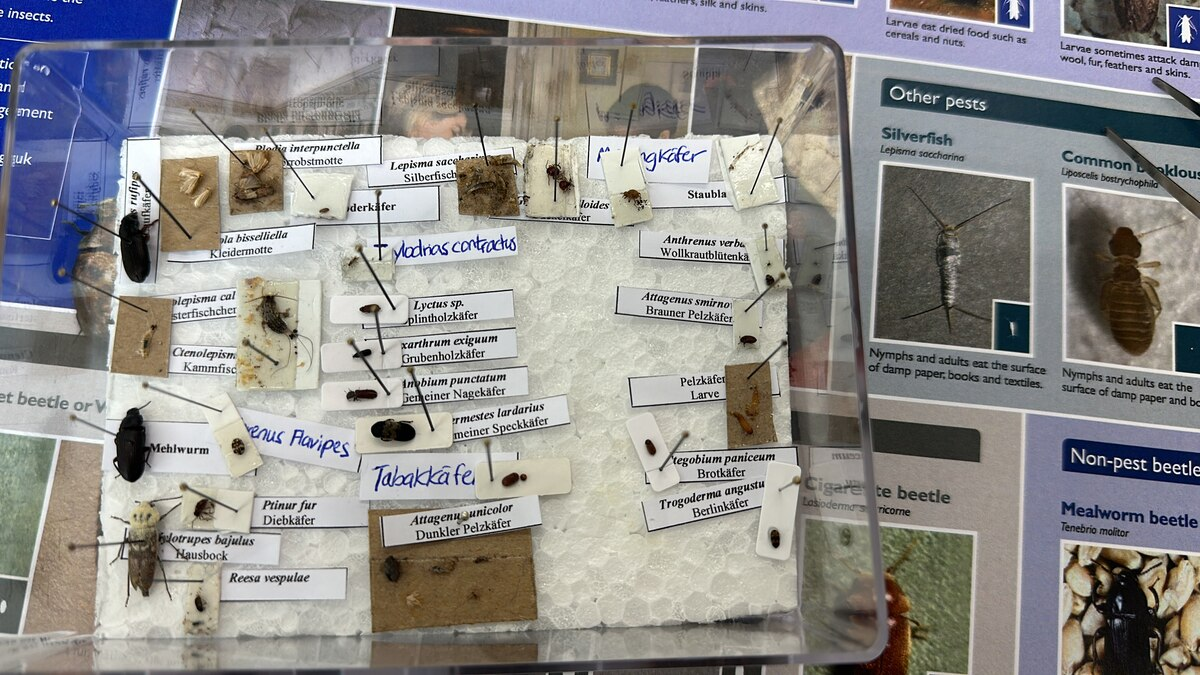
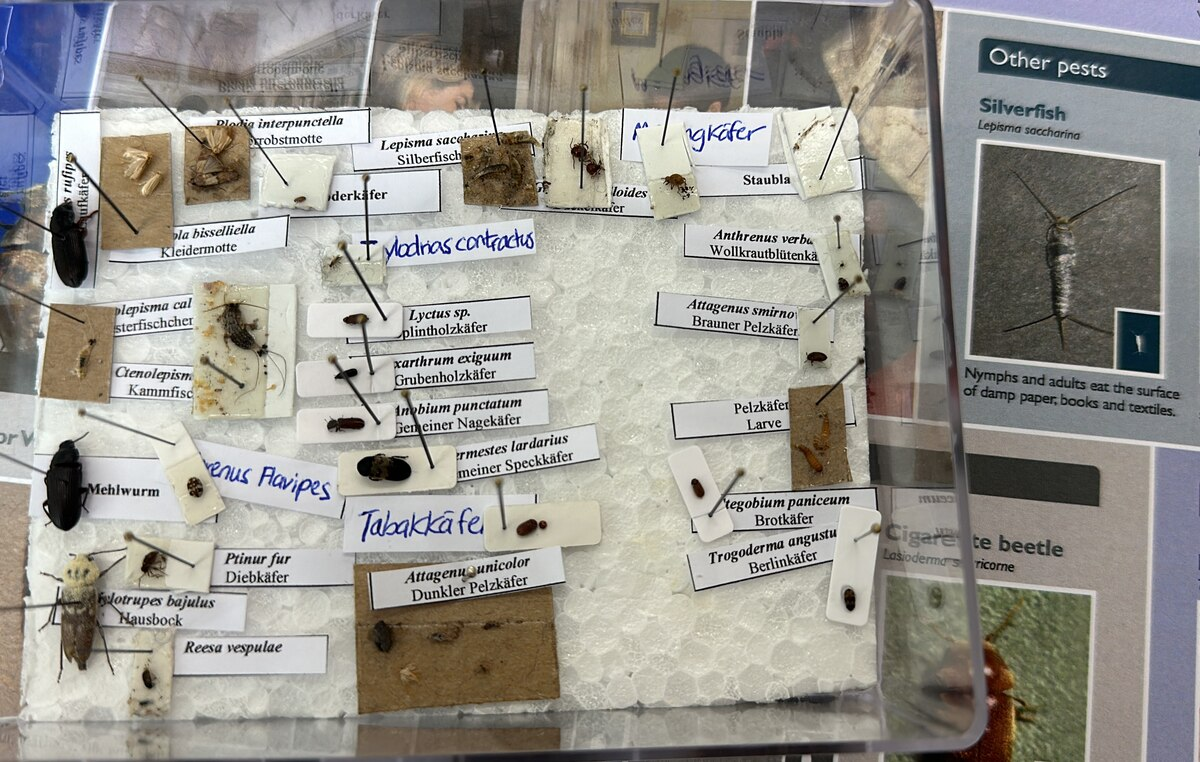
Zoom in tighter on Collection Care thumbnail so it fills the square frame

diff --git a/services.html b/services.html
@@ -162,7 +162,7 @@
 
       <div class="service-row fade-in">
         <div class="service-row-image">
-          <img src="images/service-collection-care.jpg" alt="Pest identification reference board used for integrated pest management" class="img-contain">
+          <img src="images/service-collection-care.jpg" alt="Pest identification reference board used for integrated pest management">
         </div>
         <div class="service-row-body">
           <h3 data-i18n="services.item4.title">Collection Care &amp; Conservation Consulting</h3>
